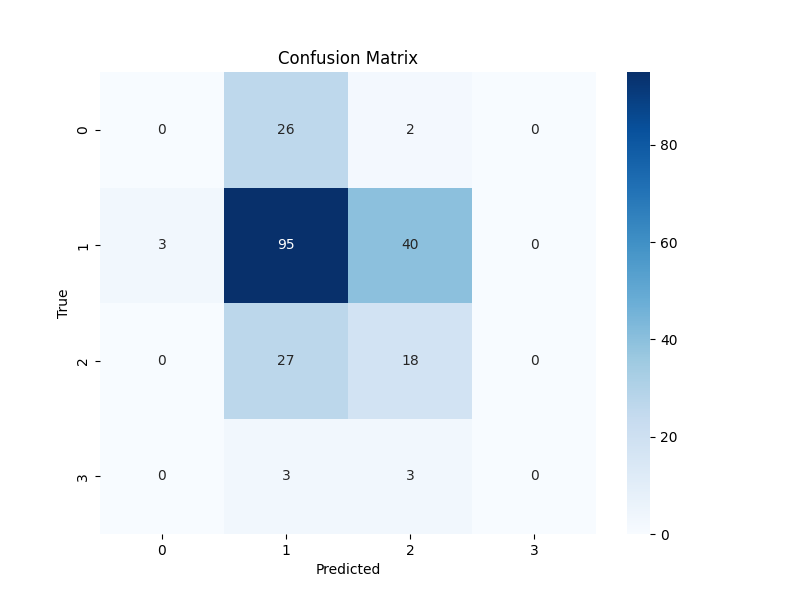
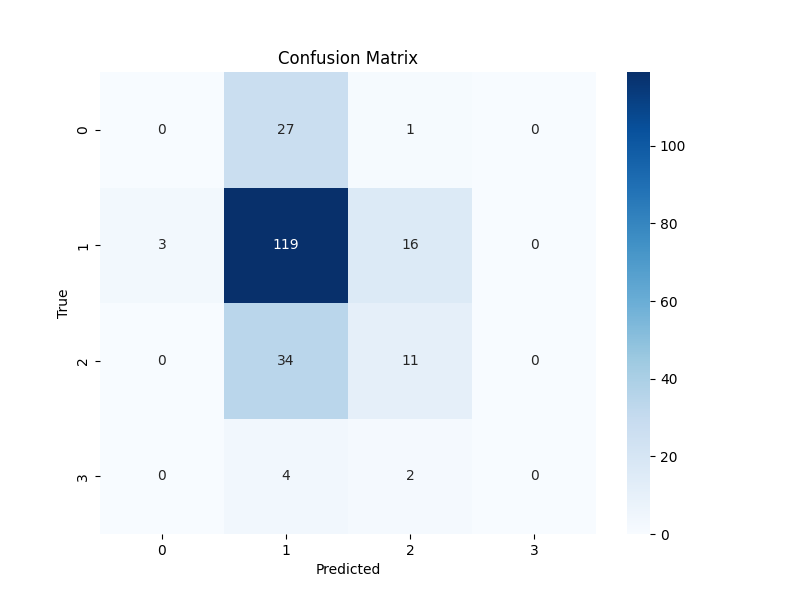
got a workaround fix for khatt image patching

diff --git a/src/engine.py b/src/engine.py
@@ -1,4 +1,6 @@
 from typing import Tuple, Literal
+
+import cv2
 import numpy as np
 from src.models.vgg16 import VGG16Model
 from src.models.vgg19 import VGG19Model
@@ -110,6 +112,7 @@ class Engine:
     def test_model(self):
         print("Evaluating model...")
 
+        real_labels = []  # TODO: remove after fixing empty patches sequence
         predictions = []
         preprocessor = PreProcess(self.image_shape)
 
@@ -118,17 +121,23 @@ class Engine:
             label = self.test_labels[i]
 
             patches, _ = preprocessor.patch_images([image], [label], self.image_shape)
-            if len(patches) == 0:
-                patches = np.array(preprocessor.resize_images([image]))  # TODO: check if fixes patch_evaluation
+            if len(patches) == 0:  # TODO: FIX PATCHES SOMETIMES BEING EMPTY
+                print(f"Image with shape {image.shape} skipped, real label {label}")
+                continue
             patch_predictions = self.model.patch_evaluation(patches)
             most_common_image_prediction = self.most_common_number(patch_predictions)
             predictions.append(most_common_image_prediction)
+            real_labels.append(label)  # TODO: remove after fixing empty patches sequence
 
-        accuracy = accuracy_score(self.test_labels, predictions)
+        # accuracy = accuracy_score(self.test_labels, predictions)
+        accuracy = accuracy_score(real_labels, predictions)
         print(f"Accuracy: {accuracy}")
         print(f"Predictions: {predictions}")
-        print(f"Real labels: {self.test_labels}")
-        self.confusion_matrix_generator.build_confusion_matrix_plot(self.test_labels,predictions,
+        # print(f"Real labels: {self.test_labels}")
+        print(f"Real labels: {real_labels}")
+        # self.confusion_matrix_generator.build_confusion_matrix_plot(self.test_labels,
+        self.confusion_matrix_generator.build_confusion_matrix_plot(real_labels,
+                                                                    predictions,
                                                                     self.model_name,
                                                                     self.data_name)
 

diff --git a/src/main.py b/src/main.py
@@ -11,32 +11,32 @@ if __name__ == "__main__":
         gpus[0],
         [tf.config.experimental.VirtualDeviceConfiguration(memory_limit=5600)])
 
-    # # Construct HHD engine
-    # HHD_engine = construct_HHD_engine(
-    #     base_dir=Path.cwd() / DATA / HHD,
-    #     image_shape=(400, 400, 1)
-    # )
-    #
-    # # Setting engine model
-    # HHD_engine.set_model(model_names.ResNet)
-    #
-    # # Training model
-    # HHD_engine.train_model()
-    #
-    # # Test model
-    # HHD_engine.test_model()
-
-    # Construct KHATT engine
-    KHATT_engine = construct_KHATT_engine(
-        base_dir=Path.cwd() / DATA / KHATT,
-        image_shape=(500, 500, 1)
+    # Construct HHD engine
+    HHD_engine = construct_HHD_engine(
+        base_dir=Path.cwd() / DATA / HHD,
+        image_shape=(400, 400, 1)
     )
 
     # Setting engine model
-    KHATT_engine.set_model(model_names.ResNet)
+    HHD_engine.set_model(model_names.ResNet)
 
     # Training model
-    KHATT_engine.train_model()
+    HHD_engine.train_model()
 
     # Test model
-    KHATT_engine.test_model()
+    HHD_engine.test_model()
+
+    # # Construct KHATT engine
+    # KHATT_engine = construct_KHATT_engine(
+    #     base_dir=Path.cwd() / DATA / KHATT,
+    #     image_shape=(500, 500, 1)
+    # )
+    #
+    # # Setting engine model
+    # KHATT_engine.set_model(model_names.ResNet)
+    #
+    # # Training model
+    # KHATT_engine.train_model()
+    #
+    # # Test model
+    # KHATT_engine.test_model()

diff --git a/src/data_handler/pre_proc.py b/src/data_handler/pre_proc.py
@@ -11,11 +11,11 @@ class PreProcess:
     def resize_images(self, images):
         # print("Resizing images...")
         # processed_images = [cv2.resize(im.image_data, (self.image_shape[0], self.image_shape[1])) for im in images]
-        processed_images = [cv2.resize(im, (self.image_shape[0], self.image_shape[1])) for im in images]
-        for row in tqdm(processed_images):
-            for i in range(len(row)):
-                row[i] = row[i] / 255
-        return np.array(processed_images)
+        return [cv2.resize(im, (self.image_shape[0], self.image_shape[1])) for im in images]
+        # for row in tqdm(processed_images):
+        #     for i in range(len(row)):
+        #         row[i] = row[i] / 255
+        # return np.array(processed_images)
 
     def patch_images(self, images, labels, segment_shape):
         # print("Patching images...")
